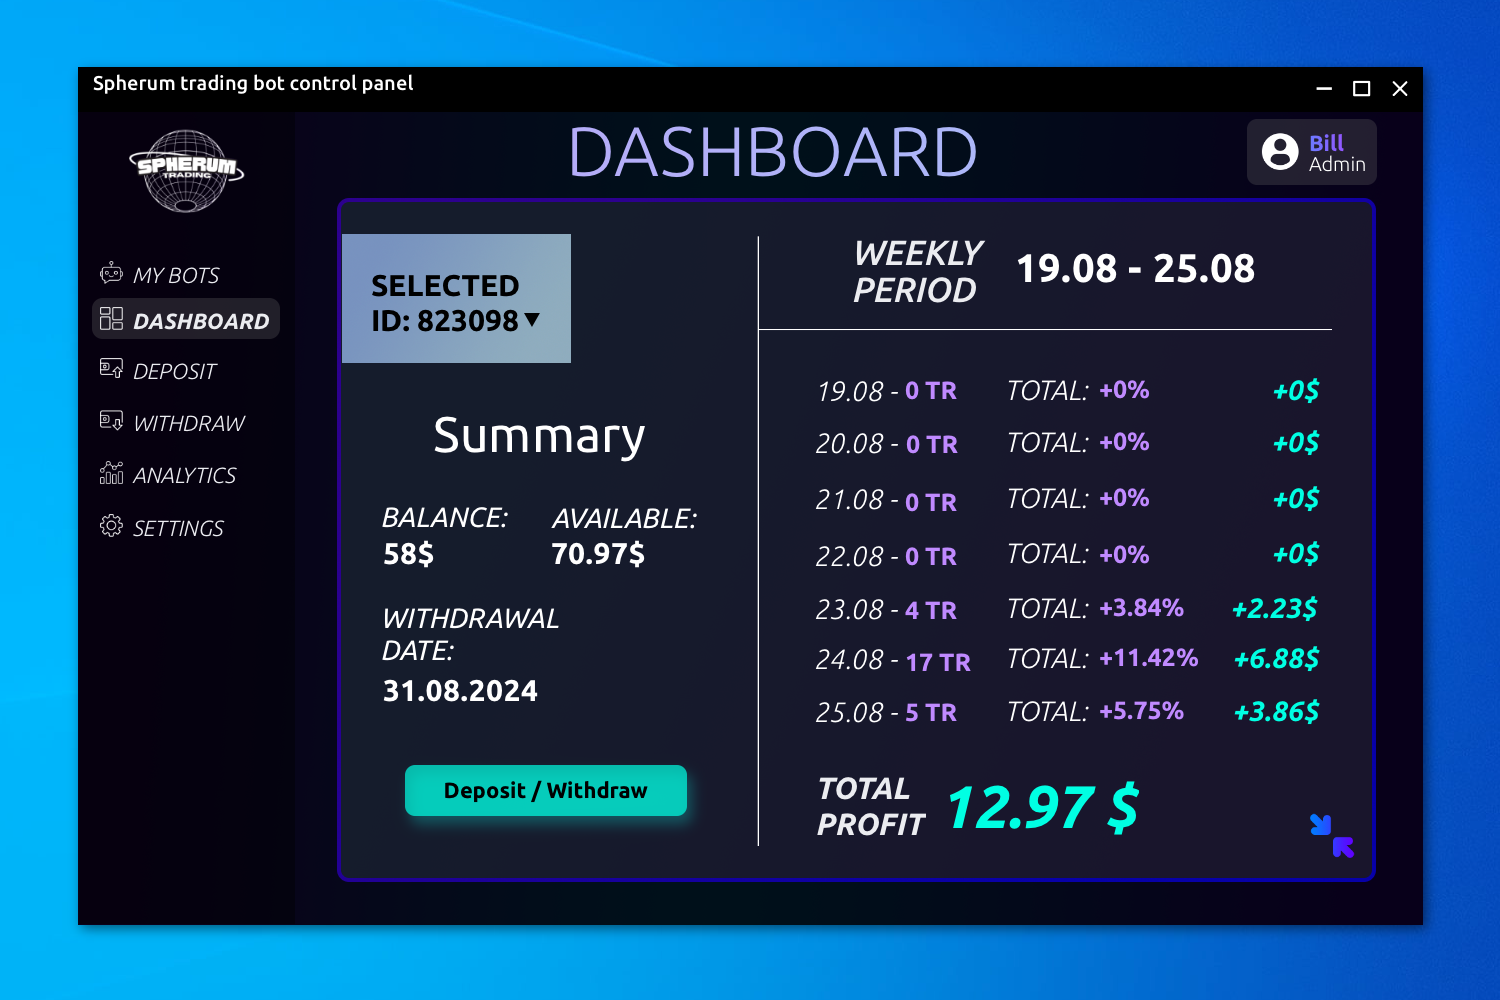
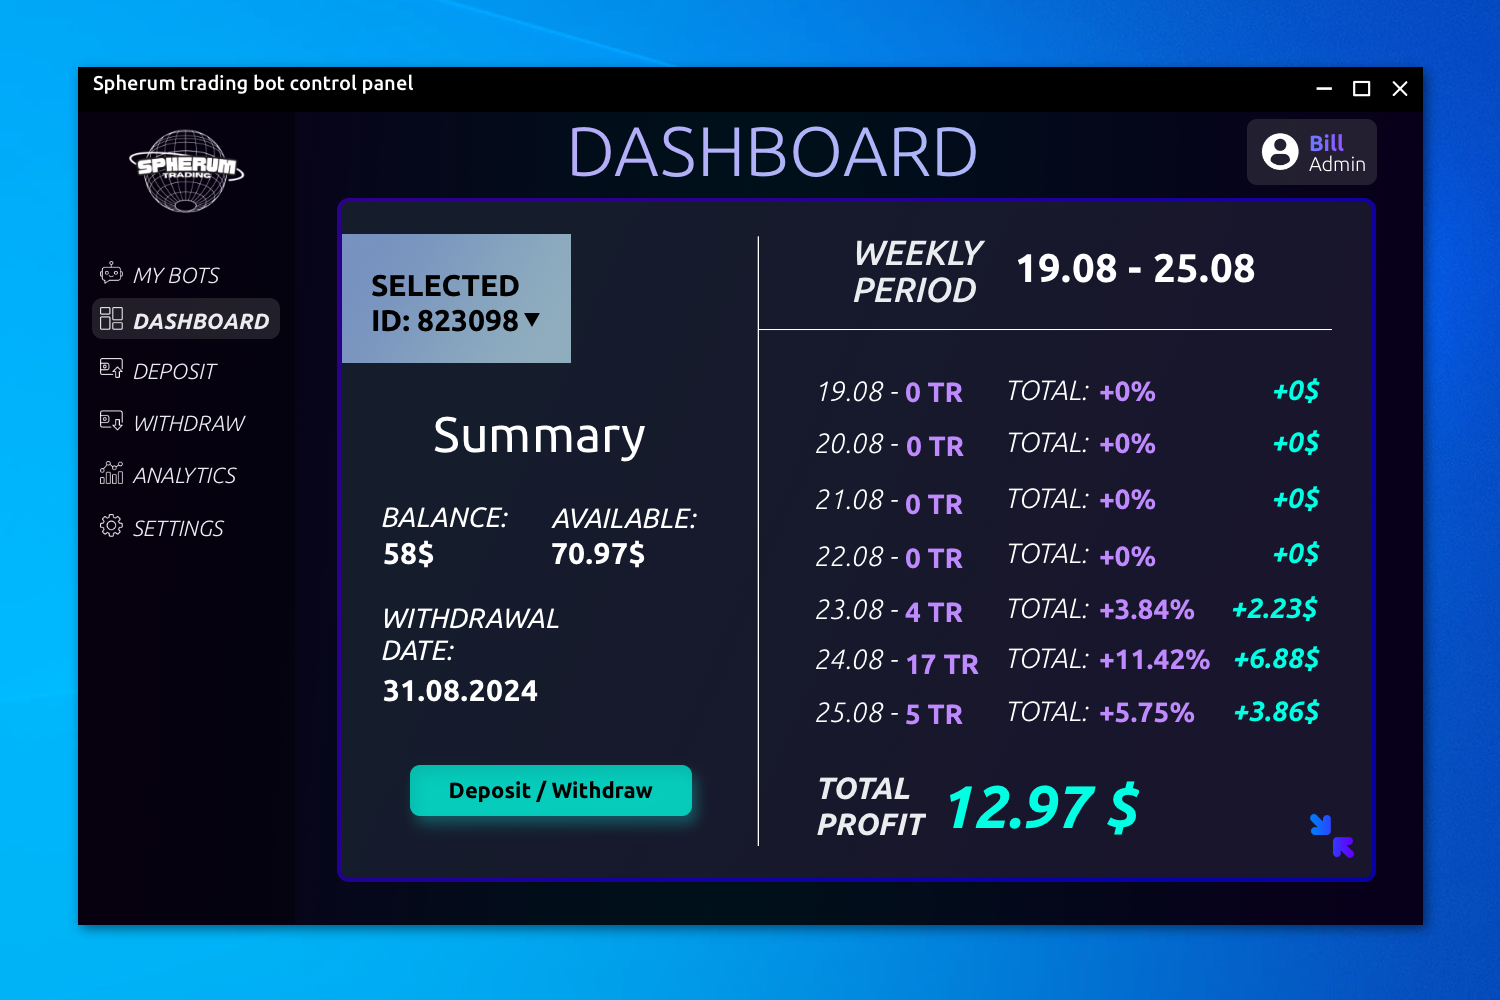
.

diff --git a/scripts/bot.js b/scripts/bot.js
@@ -4,12 +4,15 @@ let balance = "";
 let available = "";
 let withdraw_date = "";
 let total_profit = 0;
+let period = "";
+let deposit_date = "";
 
 
 // получение данных из формы ввода 
 function getInputData() {
     balance = document.myform.balance.value;
     withdraw_date = document.myform.withdraw_date.value;
+    deposit_date = document.myform.deposit_date.value;
 };
 
 
@@ -36,15 +39,100 @@ window.onload = function() {
 // формирование скриншота 
 async function generateScreenshot () {
     getInputData(); // получение данных из полей ввода 
+
     
-    let available = balance + total_profit;
-        
-    // Отрисовка тела скрина
-    document.getElementById("available").textContent = available;
+    let week_days_dates = generateWeekArray(); // Получение списка дней текущей недели в виде дат
+    let week_trades = []; // массив количества трейдов за день
+    let week_percentages = []; // массив количества процентов прибыли за день 
+    let day_profits = []; // массив значений прибыли за день
+
+    // Перебор 7 дней недели (c 0 по 6) для генерации числа трейдов и процентов за день
+    for (let day = 0; day <= 6; day++) {
+        let total_day_percent = 0;
+
+        // Генерация рандомного числа трейдров за день
+        let min = 13;
+        let max = 19;
+        let trades_count = Math.floor(Math.random() * (max - min + 1)) + min;
+
+        for (let trade = 1; trade <= trades_count; trade++) {
+            // Генерация рандомного процента прибыли одного трейда 
+            let min = 0.67;
+            let max = 0.95;
+            const profit_percentage = Math.random() * (max - min) + min;
+            total_day_percent += profit_percentage;
+        }
+
+        week_trades[day] = trades_count;
+        week_percentages[day] = total_day_percent.toFixed(2);
+    }
+
+    // вычисление прибыли в usd для каждого дня
+    for (let i = 0; i <= 6; i++) {
+        let day_profit = (balance * week_percentages[i]) / 100;
+        day_profits[i] = day_profit.toFixed(2);
+    }
+
+    console.log(week_days_dates);
+    console.log(week_trades);
+    console.log(week_percentages);
+    console.log(day_profits);
+
+    // Генерация строки периода с первой и последней дат недели
+    period = `${week_days_dates[0]} - ${week_days_dates[6]}`;
+    console.log(period); 
+
+    // Отрисовка тела скрина (все, кроме таблицы)
+    document.getElementById("period").textContent = period;
+    document.getElementById("available").textContent = "test";
+
+    // Заполнение таблицы данными из массивов
+    const table = document.getElementById('table');
+    for (let i = 0; i < 7; i++) {
+        const row = table.rows[i]; 
+        row.cells[0].innerText = `${week_days_dates[i]} -`;
+        row.cells[1].innerText = `${week_trades[i]} TR`;
+        row.cells[3].innerText = `+${week_percentages[i]}%`;
+        row.cells[4].innerText = `+${day_profits[i]}$`;
+    }
 
     // замена фона скрина 
-    //let image_url = "url(../images/withdraw/work.png)"; 
-    // document.getElementById('screenshot').style.backgroundImage = image_url;
+    let image_url = "url(../images/bot/dashboard-work.png)"; 
+    document.getElementById('screenshot').style.backgroundImage = image_url;
+}
+
+
+// Генерация списка дней текущей календарной недели
+function generateWeekArray() {
+    // получение текущей даты
+    const today = new Date();
+    const year = today.getFullYear();
+    const month = String(today.getMonth() + 1).padStart(2, '0');
+    const day = String(today.getDate()).padStart(2, '0');
+    let currentDate = `${year}-${month}-${day}`;
+
+    // Преобразуем входную дату в объект Date
+    const date = new Date(currentDate);
+    
+    // Получаем день недели (0 - воскресенье, 1 - понедельник и т.д.)
+    const dayOfWeek = date.getDay();
+    
+    // Определяем дату начала недели (понедельник)
+    const startOfWeek = new Date(date);
+    startOfWeek.setDate(date.getDate() - (dayOfWeek === 0 ? 6 : dayOfWeek - 1));
+    
+    const weekArray = [];
+    
+    for (let i = 0; i < 7; i++) {
+        const currentDay = new Date(startOfWeek);
+        currentDay.setDate(startOfWeek.getDate() + i);
+        
+        // Форматируем дату в строку "DD-MM"
+        const day = String(currentDay.getDate()).padStart(2, '0');
+        const month = String(currentDay.getMonth() + 1).padStart(2, '0');
+        weekArray.push(`${day}.${month}`);
+    }
+    return weekArray;
 }
 
 

diff --git a/pages/bot.html b/pages/bot.html
@@ -1,6 +1,8 @@
+<!DOCTYPE html>
+
 <HTML>
     <head>
-        <TITLE>Trading Bot</TITLE>
+        <TITLE>Bot</TITLE>
 
         <meta http-equiv="Content-Type" content="text/html; charset=utf-8" />
         
@@ -30,19 +32,27 @@
                     <div class="form_left">
                         <div>
                             <label>Balance:</label>
-                            <input TYPE="text" NAME="balance" value="" placeholder="58">
+                            <input TYPE="text" NAME="balance" value="58" placeholder="58">
                             <label>$</label>
                         </div>
                             
                         <div>
                             <label>WD Date:</label>
-                            <input type="text" NAME="withdraw_date" value="" placeholder="01.01.2001">
+                            <input type="date" NAME="withdraw_date" value="" placeholder="01.01.2001">
                         </div>
                             
                         <div>
-                            <label>Derivatives:</label>
-                            <input type="text" NAME="derivatives" value="" placeholder="1,234.56">
-                            <label>USD</label>
+                            <label>Deposit date:</label>
+                            <input type="date" NAME="deposit_date" value="" placeholder="01.01.2001">
+                        </div>
+
+                        <div>
+                            <label>Треть дня:</label>
+                            <select name="option">
+                                <option value='Long'>00:00+8</option>
+                                <option value='Short'>00:00+16</option>
+                                <option value='Short'>00:00+23</option>
+                            </select>
                         </div>
                     </div>
                     
@@ -83,6 +93,58 @@
             <span class="available" id='available'>70.97$</span>
             <span class="withdraw_date" id='withdraw_date'>31.08.2024</span>
             <span class="total_profit" id='total_profit'>12.97 $</span>
+
+            <table class="table" id="table">
+                <tr>
+                    <td id="day_1_date"></td>
+                    <td id="day_1_trades"></td>
+                    <td>TOTAL:</td>
+                    <td id="day_1_percent"></td>
+                    <td id="day_1_profit"></td>
+                </tr>
+                <tr>
+                    <td id="day_2_date"></td>
+                    <td id="day_2_trades"></td>
+                    <td>TOTAL:</td>
+                    <td id="day_2_percent"></td>
+                    <td id="day_2_profit"></td>
+                </tr>
+                <tr>
+                    <td id="day_3_date"></td>
+                    <td id="day_3_trades"></td>
+                    <td>TOTAL:</td>
+                    <td id="day_3_percent"></td>
+                    <td id="day_3_profit"></td>
+                </tr>
+                <tr>
+                    <td id="day_4_date"></td>
+                    <td id="day_4_trades"></td>
+                    <td>TOTAL:</td>
+                    <td id="day_4_percent"></td>
+                    <td id="day_4_profit"></td>
+                </tr>
+                <tr>
+                    <td id="day_5_date"></td>
+                    <td id="day_5_trades"></td>
+                    <td>TOTAL:</td>
+                    <td id="day_5_percent"></td>
+                    <td id="day_5_profit"></td>
+                </tr>
+                <tr>
+                    <td id="day_6_date"></td>
+                    <td id="day_6_trades"></td>
+                    <td>TOTAL:</td>
+                    <td id="day_6_percent"></td>
+                    <td id="day_6_profit"></td>
+                </tr>
+                <tr>
+                    <td id="day_7_date"></td>
+                    <td id="day_7_trades"></td>
+                    <td>TOTAL:</td>
+                    <td id="day_7_percent"></td>
+                    <td id="day_7_profit"></td>
+                </tr>
+            </table>
         </div>
     </body>
 </HTML>

diff --git a/styles/bot.css b/styles/bot.css
@@ -14,12 +14,55 @@
     font-family: "Ubuntu", sans-serif;
 }
 
-.period, .balance, .available, .withdraw_date, .total_profit {
+.period, .balance, .available, .withdraw_date, .total_profit, .table {
     position: absolute;
     color: red;
     font-weight: 700;
 }
 
+
+.table {
+    top: 370px;
+    left: 810px;
+    font-size: 28px;
+}
+table tr td {
+    padding-bottom: 18px;
+}
+/* Даты */
+.table tr > td:nth-child(1) {
+    width: 90px;
+    color: #fff;
+    font-weight: 200;
+    font-style: italic;
+}
+/* Трейды  */
+.table tr > td:nth-child(2) {
+    padding-right: 20px;
+    color: #C08AFF;
+    font-weight: 700;
+}
+/* Надпись "TOTAL" */
+.table tr > td:nth-child(3) {
+    padding-right: 5px;
+    font-style: italic;
+    font-weight: 300;
+    color: #fff;
+}
+/* Проценты */
+.table tr > td:nth-child(4) {
+    padding-right: 25px;
+    color: #C08AFF;
+    font-weight: 700;
+}
+/* Профиты */
+.table tr > td:nth-child(5) {
+    text-align: right;
+    color: #00FFE3;
+    font-weight: 700;
+    font-style: italic;
+
+}
 
 
 .period {

diff --git a/styles/main.css b/styles/main.css
@@ -62,7 +62,7 @@ button {
     padding: 50px;
     margin: 0 auto; 
     top: 50%;
-    transform: translateY(-50%);
+    /*transform: translateY(-50%);*/
     display: flex;
     /*background-color: #1A1D1C;*/
     background: linear-gradient(135deg, #32343D, #242627);
